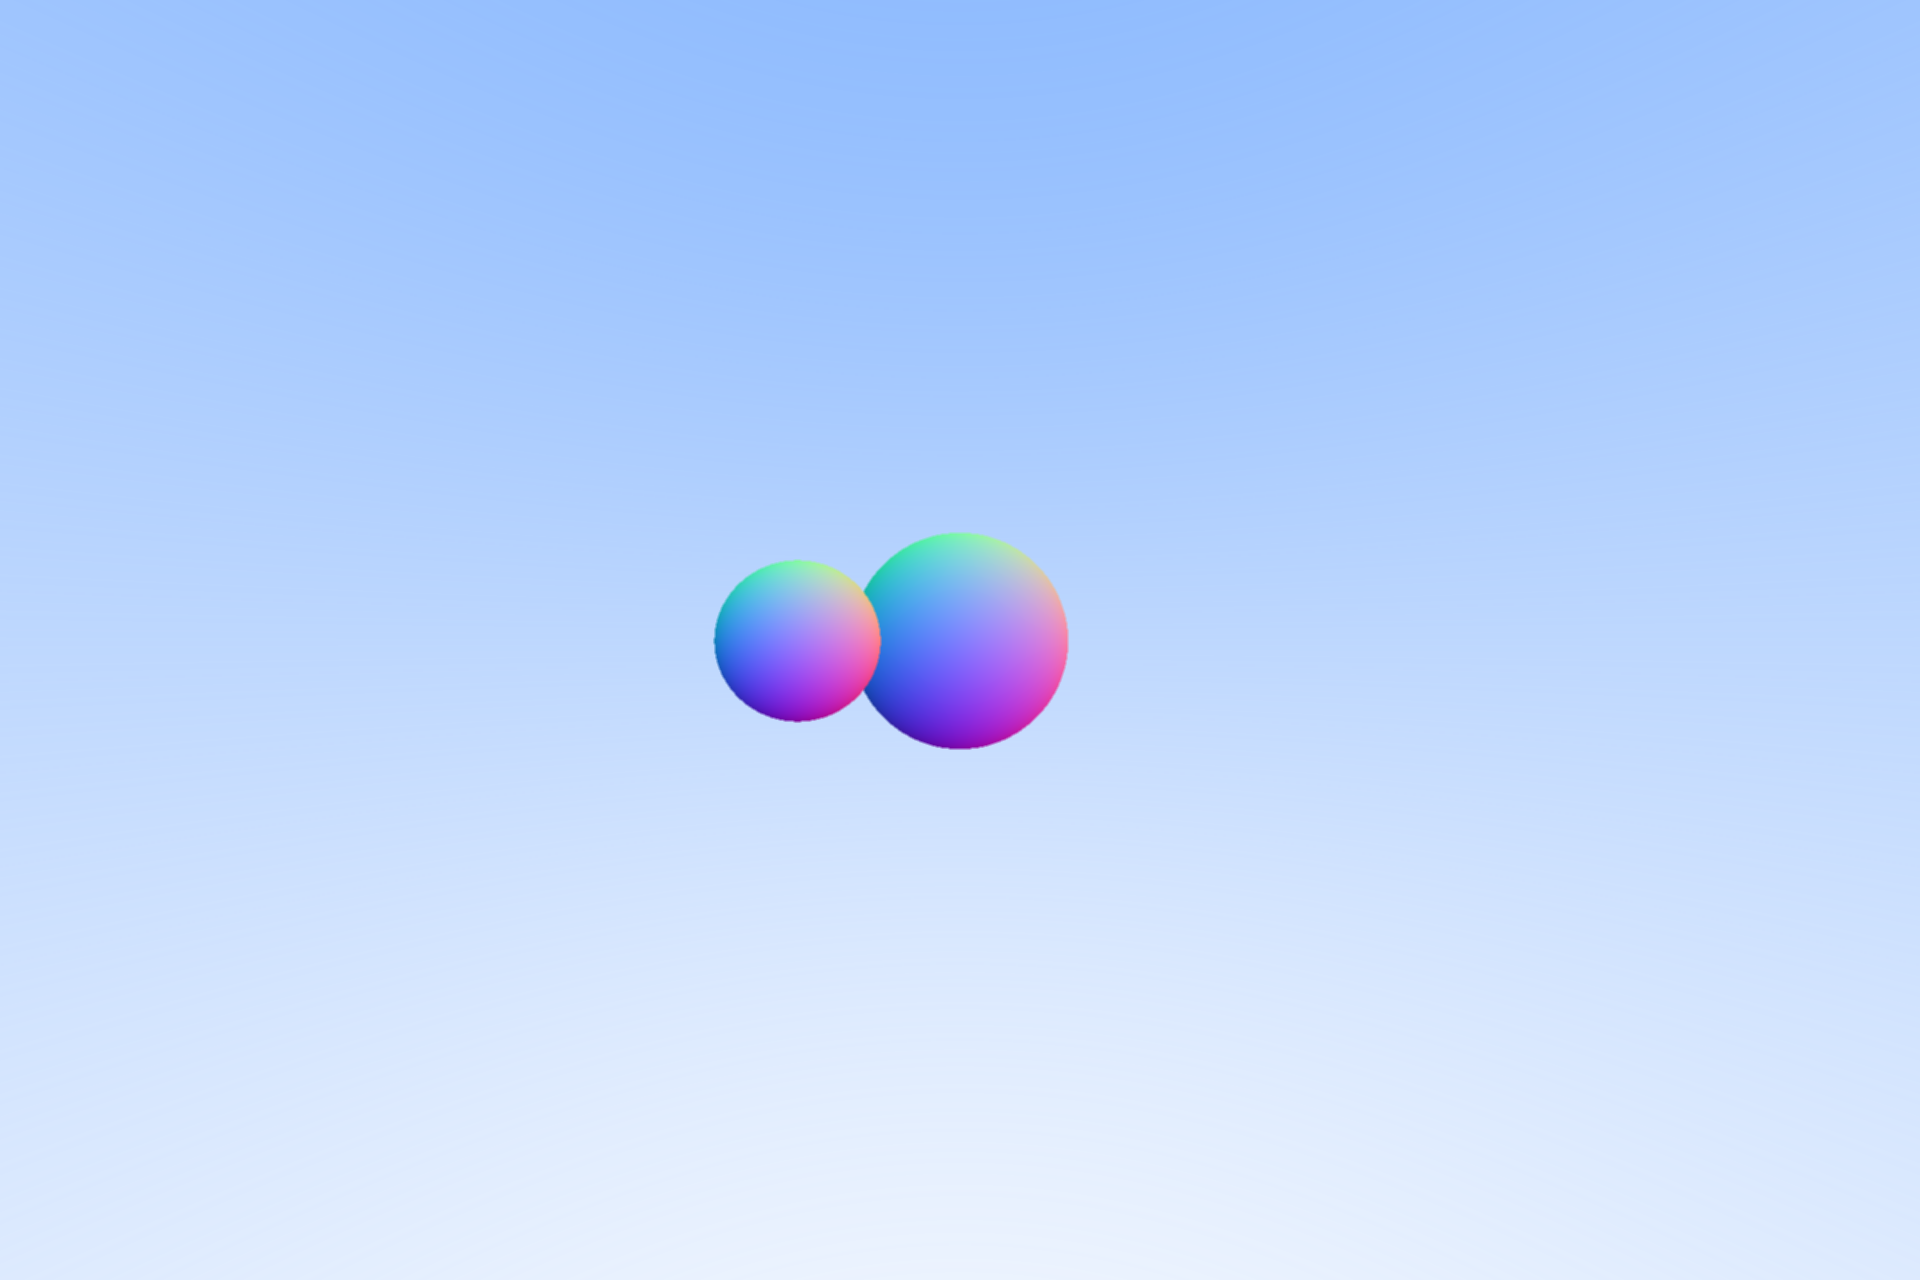
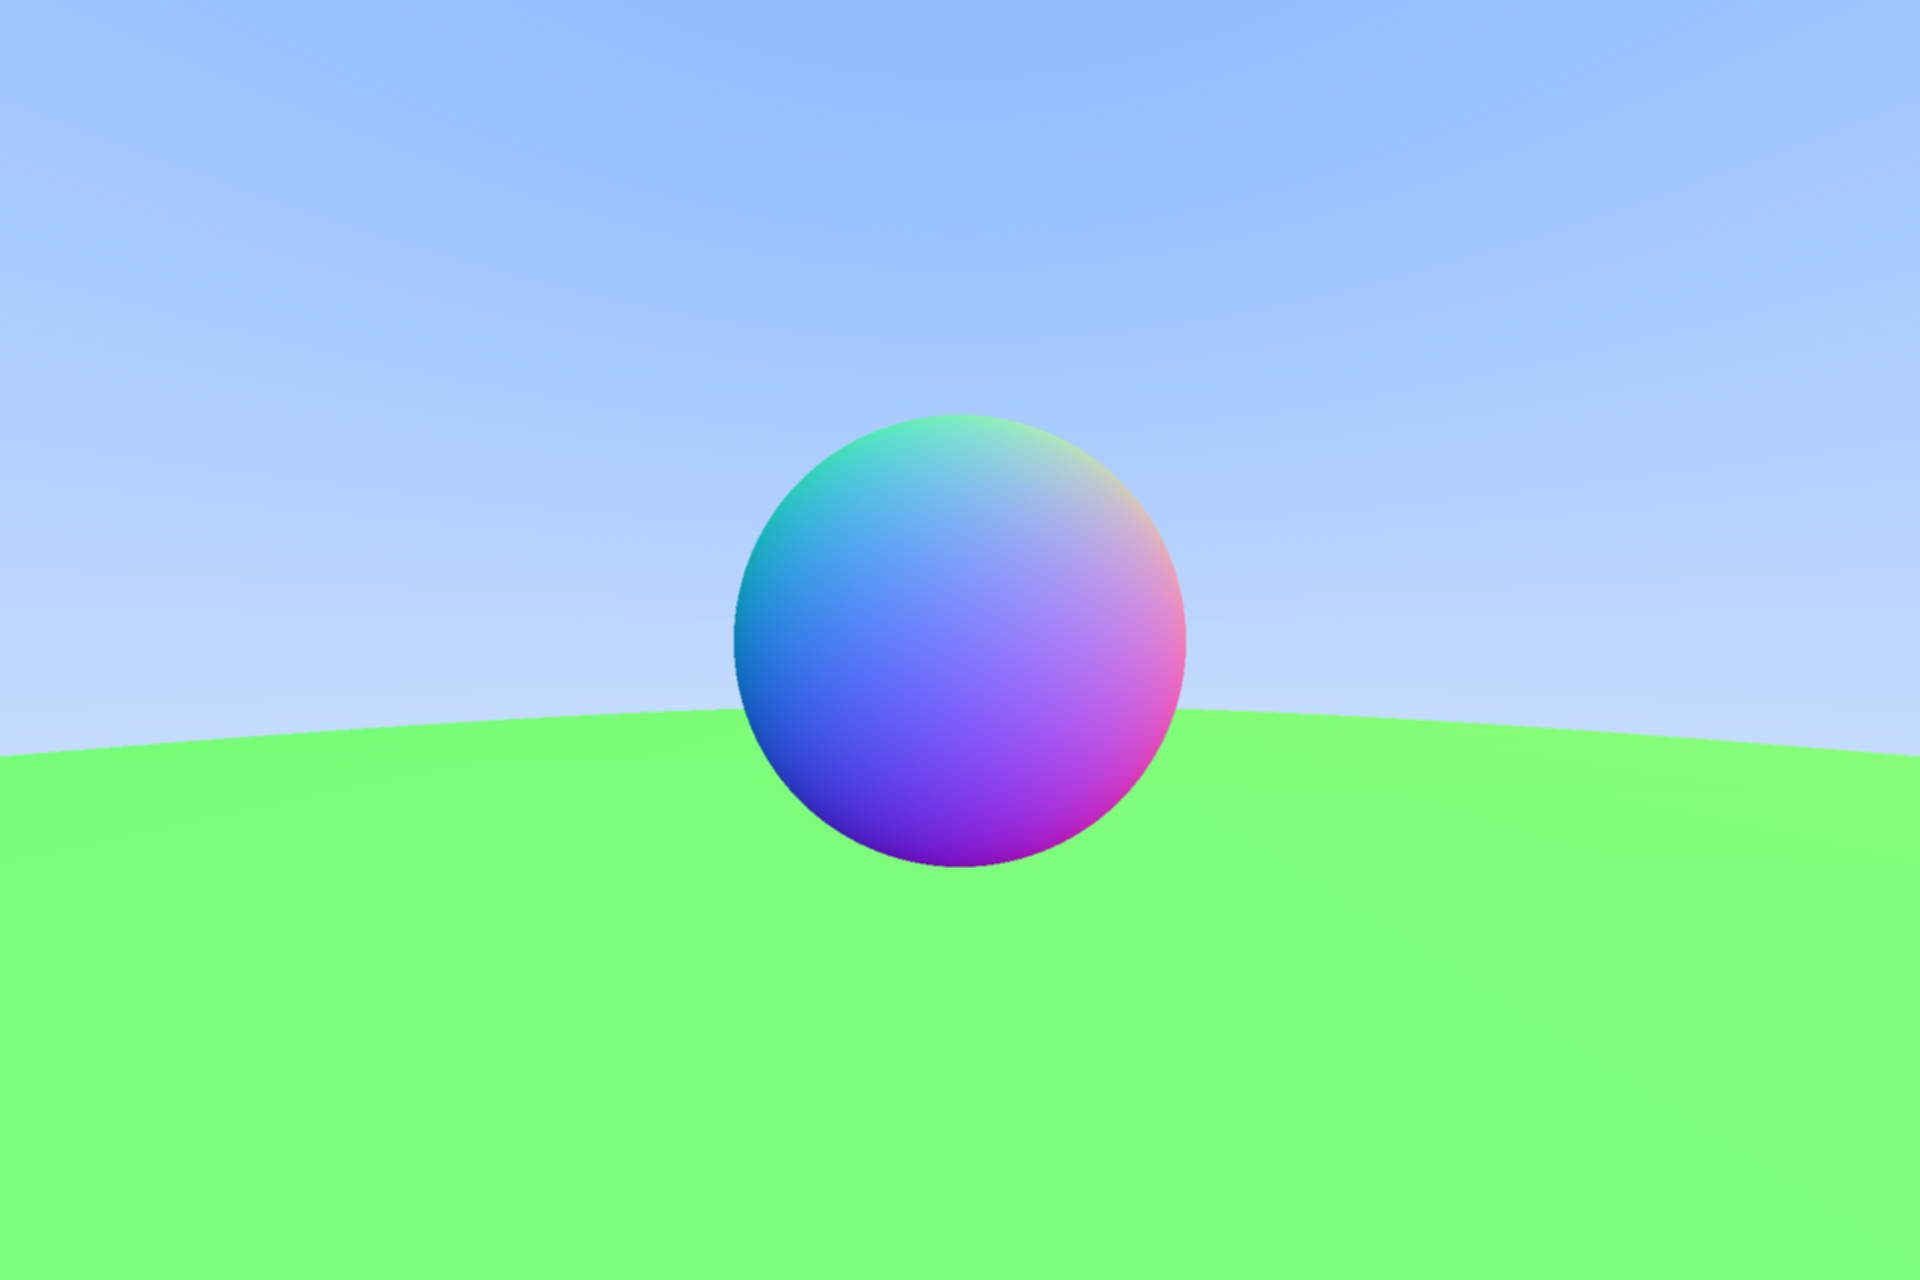
fixed ray hit bug

diff --git a/src/math/vector.rs b/src/math/vector.rs
@@ -1,5 +1,8 @@
 use std::ops;
 
+/// A struct for representing positions and directions. In essence, simply mathematical vectors
+///
+/// Each vector contains an x, y, and z value
 #[derive(Copy, Clone, Debug)]
 pub struct Vector3 {
     pub x: f64,
@@ -8,31 +11,37 @@ pub struct Vector3 {
 }
 
 impl Vector3 {
+    /// Creates a new vector with the given x, y, and z values
     pub fn new(x: f64, y: f64, z: f64) -> Vector3 {
         Vector3 { x, y, z }
     }
 
-    pub fn get(&self, index: usize) -> f64 {
-        match index {
-            0 => self.x,
-            1 => self.y,
-            2 => self.z,
-            _ => panic!("Index out of bounds"),
-        }
-    }
-
+    /// Returns the squared length of the vector
+    ///
+    /// The resulting value is equal to `x^2 + y^2 + z^2`
     pub fn len_squared(&self) -> f64 {
         (self.x * self.x) + (self.y * self.y) + (self.z * self.z)
     }
 
+    /// Returns the length of the vector
+    ///
+    /// The resulting value is equal to `sqrt(x^2 + y^2 + z^2)`. This is calculated by returning
+    /// the square root of `self.len_squared`
     pub fn len(&self) -> f64 {
         self.len_squared().sqrt()
     }
 
+    /// Returns the dot product between this vector and the given vector
+    ///
+    /// This is the same as summing the product of the corresponding components from each vector
     pub fn dot(&self, rhs: Vector3) -> f64 {
         self.x * rhs.x + self.y * rhs.y + self.z * rhs.z
     }
 
+    /// Returns a normalized version of this vector
+    ///
+    /// A normalized vector has the same proportions and direction as the orignial vector, but has
+    /// been scaled so that its length is equal to 1
     pub fn normalize(self) -> Vector3 {
         let len = self.len();
 
@@ -44,6 +53,9 @@ impl Vector3 {
     }
 }
 
+/// Overrides the addition operator for vectors
+///
+/// Returns a new vector of the same length by adding each of the corresponding components together
 impl ops::Add<Vector3> for Vector3 {
     type Output = Vector3;
 
@@ -55,6 +67,10 @@ impl ops::Add<Vector3> for Vector3 {
     }
 }
 
+/// Overrides the subtraction operator for vectors
+///
+/// Returns a new vector of the same length by subtracting each of the right hand side components
+/// from their corresponding left hand side component
 impl ops::Sub<Vector3> for Vector3 {
     type Output = Vector3;
 
@@ -66,6 +82,9 @@ impl ops::Sub<Vector3> for Vector3 {
     }
 }
 
+/// Overrides the multiplication operator between a vector and a scalar
+///
+/// Returns a new vector where each component has been multiplied by the given scalar
 impl ops::Mul<f64> for Vector3 {
     type Output = Vector3;
 
@@ -77,6 +96,9 @@ impl ops::Mul<f64> for Vector3 {
     }
 }
 
+/// Overrides the division operator between a vector and a scalar
+///
+/// Returns a new vector where each component has been divided by the given scalar
 impl ops::Div<f64> for Vector3 {
     type Output = Vector3;
 

diff --git a/src/main.rs b/src/main.rs
@@ -7,18 +7,24 @@ mod math;
 mod world;
 
 fn main() {
+    // print any messages that originate from dependencies
     env_logger::init();
 
+    // Create a mutable world where objects can be added and a camera can be set
+    let mut world = World::new("Chromatic - Raytracer".to_string(), 1920, 1280);
+
+    // Initialize the camera values. 'up' and 'right' correspond to directions to determine
+    // which direction the camera is facing
     let position = Vector3::new(0.0, 0.0, 0.0);
     let up = Vector3::new(0.0, 1.0, 0.0);
     let right = Vector3::new(1.0, 0.0, 0.0);
-
-    let sphere1 = Sphere::new(Vector3::new(0.0, 0.0, -3.0), 0.5, Color::new(255, 0, 0));
-    let sphere2 = Sphere::new(Vector3::new(-0.5, 0.0, -2.0), 0.25, Color::new(0, 128, 128));
-
-    let mut world = World::new("Chromatic - Raytracer".to_string(), 1920, 1280);
     world.camera(position, up, right);
+
+    // Add two spheres to the world
+    let sphere1 = Sphere::new(Vector3::new(0.0, 0.0, -1.5), 0.5, Color::new(255, 0, 0));
+    let sphere2 = Sphere::new(Vector3::new(0.0, -100.5, 0.0), 100.0, Color::new(0, 128, 128));
     world.add_object(Box::new(sphere1));
     world.add_object(Box::new(sphere2));
+
     world.run();
 }

diff --git a/src/math/ray.rs b/src/math/ray.rs
@@ -1,6 +1,8 @@
 use crate::math::color::Color;
 use crate::math::vector::Vector3;
 
+/// A struct that represents a ray. Each ray has an origin and a direction vector which establishes
+/// the property of the ray
 #[derive(Copy, Clone, Debug)]
 pub struct Ray {
     pub origin: Vector3,
@@ -8,14 +10,19 @@ pub struct Ray {
 }
 
 impl Ray {
+    /// Returns a new ray with the given origin and direction
     pub fn new(origin: Vector3, direction: Vector3) -> Ray {
         Ray { origin, direction }
     }
 
+    /// Returns the vector at location `t` along the ray
+    ///
+    /// This location is equal to `O + D(t)`
     pub fn at(&self, t: f64) -> Vector3 {
         self.origin + (self.direction * t)
     }
 
+    /// Returns the color of the ray if it hits nothing
     pub fn color(&self) -> Color {
         let dir = self.direction.normalize();
 

diff --git a/src/math/color.rs b/src/math/color.rs
@@ -1,3 +1,5 @@
+/// A simple struct for representing color in an RGB format. Each channel has a value between 0-255
+/// as is common in most image displaying systems
 #[derive(Copy, Clone, Debug)]
 pub struct Color {
     pub r: u8,
@@ -6,10 +8,14 @@ pub struct Color {
 }
 
 impl Color {
+    /// Returns a new color with the given r, g, and b values
     pub fn new(r: u8, g: u8, b: u8) -> Color {
         Color { r, g, b }
     }
 
+    /// Returns the `r`, `g`, and `b` values as a single array.
+    ///
+    /// Useful for pushing color data into a pixel buffer
     pub fn data(self) -> [u8; 3] {
         [self.r, self.g, self.b]
     }

diff --git a/src/world/object.rs b/src/world/object.rs
@@ -36,7 +36,19 @@ impl Object for Sphere {
         if discriminant < 0.0 {
             None
         } else {
-            Some((-half_b - discriminant.sqrt()) / a)
+            let root = (-half_b - discriminant.sqrt()) / a;
+            if root < 0.0 {
+                let root = (-half_b + discriminant.sqrt()) / a;
+                if root < 0.0 {
+                    None
+                }
+                else {
+                    Some(root)
+                }
+            }
+            else {
+                Some(root)
+            }
         }
     }
 

diff --git a/src/world/camera.rs b/src/world/camera.rs
@@ -4,7 +4,6 @@ use crate::math::vector::Vector3;
 use crate::world::object::Object;
 use pixels::Pixels;
 use std::cmp::Ordering;
-use std::ops::Deref;
 
 #[derive(Debug)]
 pub struct Camera {
@@ -84,7 +83,7 @@ impl Camera {
                     None
                 }
             })
-            .min_by(|(t1, o1), (t2, o2)| {
+            .min_by(|(t1, _), (t2, _)| {
                 if t1 < t2 {
                     Ordering::Less
                 } else if t1 > t2 {

diff --git a/src/world/world.rs b/src/world/world.rs
@@ -44,7 +44,7 @@ impl World {
     pub fn run(self) -> ! {
         let event_loop = EventLoop::new();
         let window = WindowBuilder::new()
-            .with_title("Chromatic")
+            .with_title(self.name)
             .with_inner_size(PhysicalSize::new(self.width, self.height))
             .build(&event_loop)
             .unwrap();
